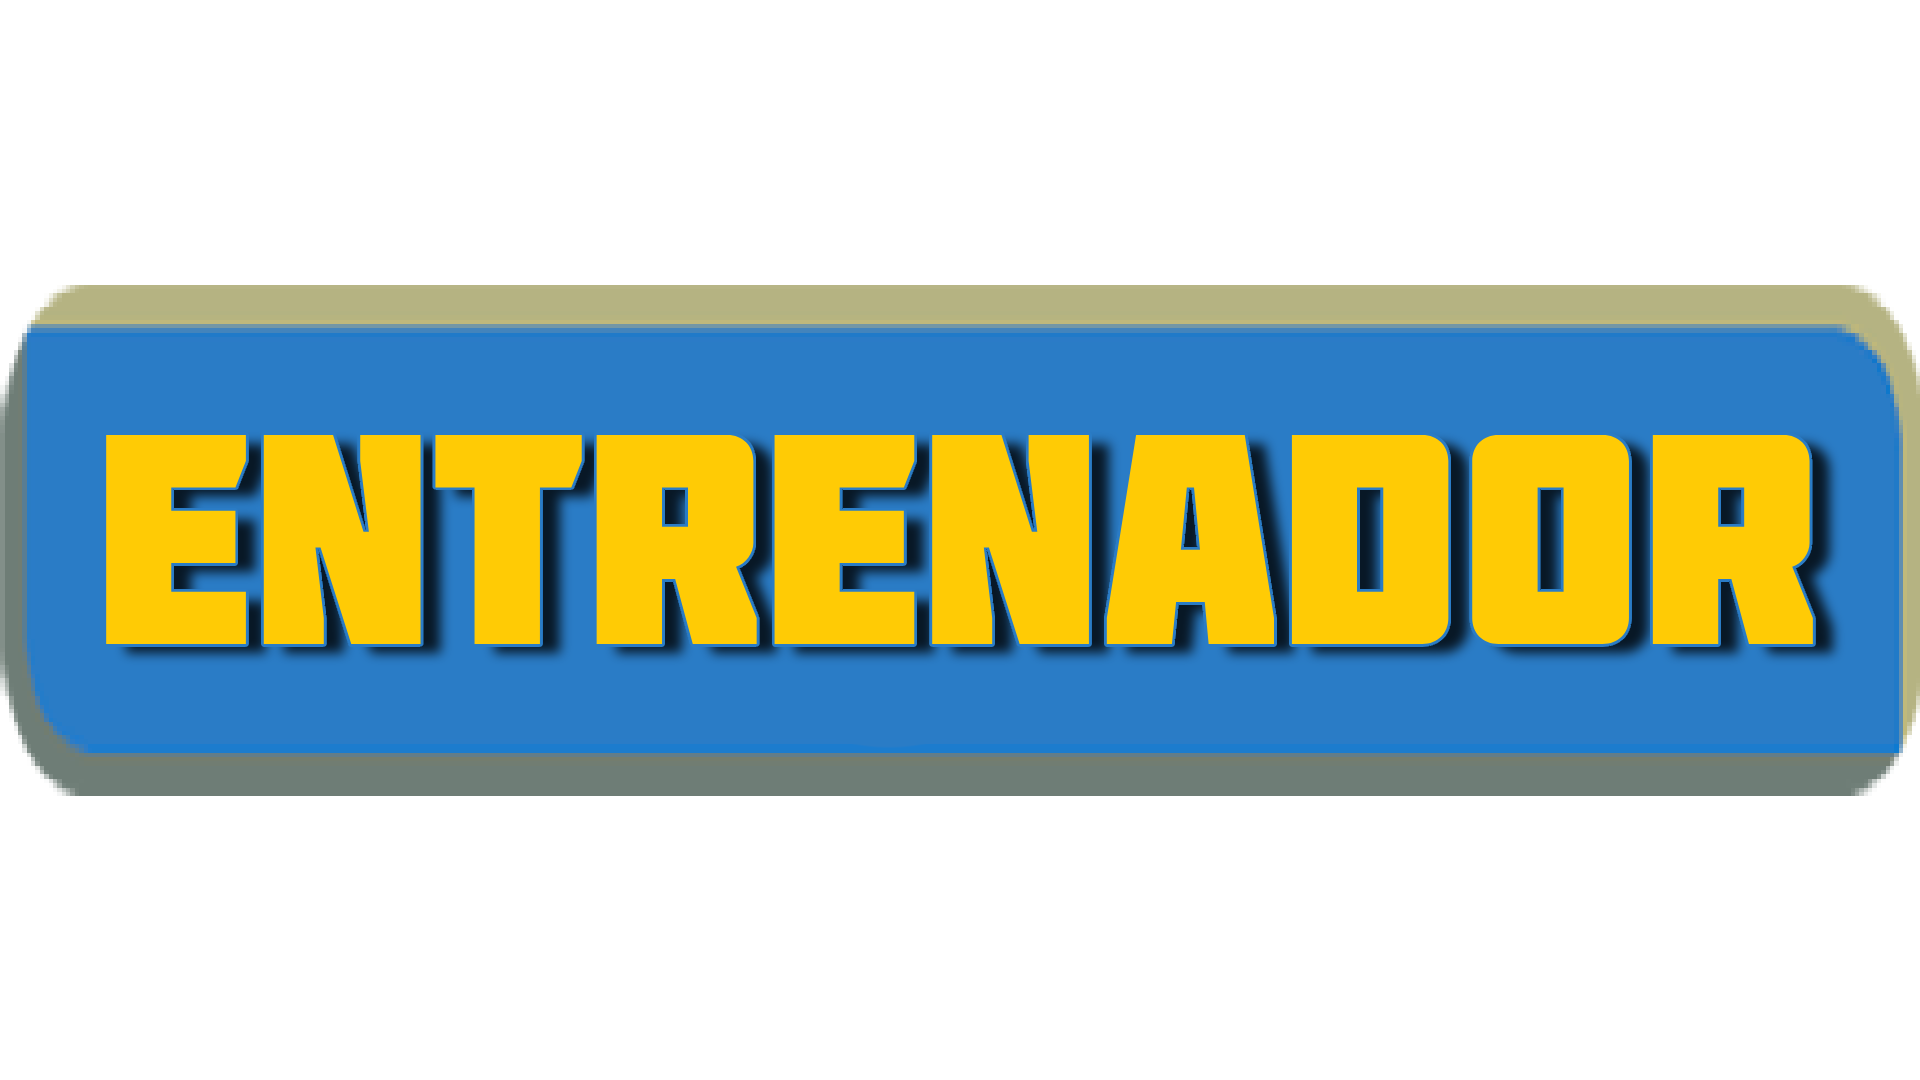
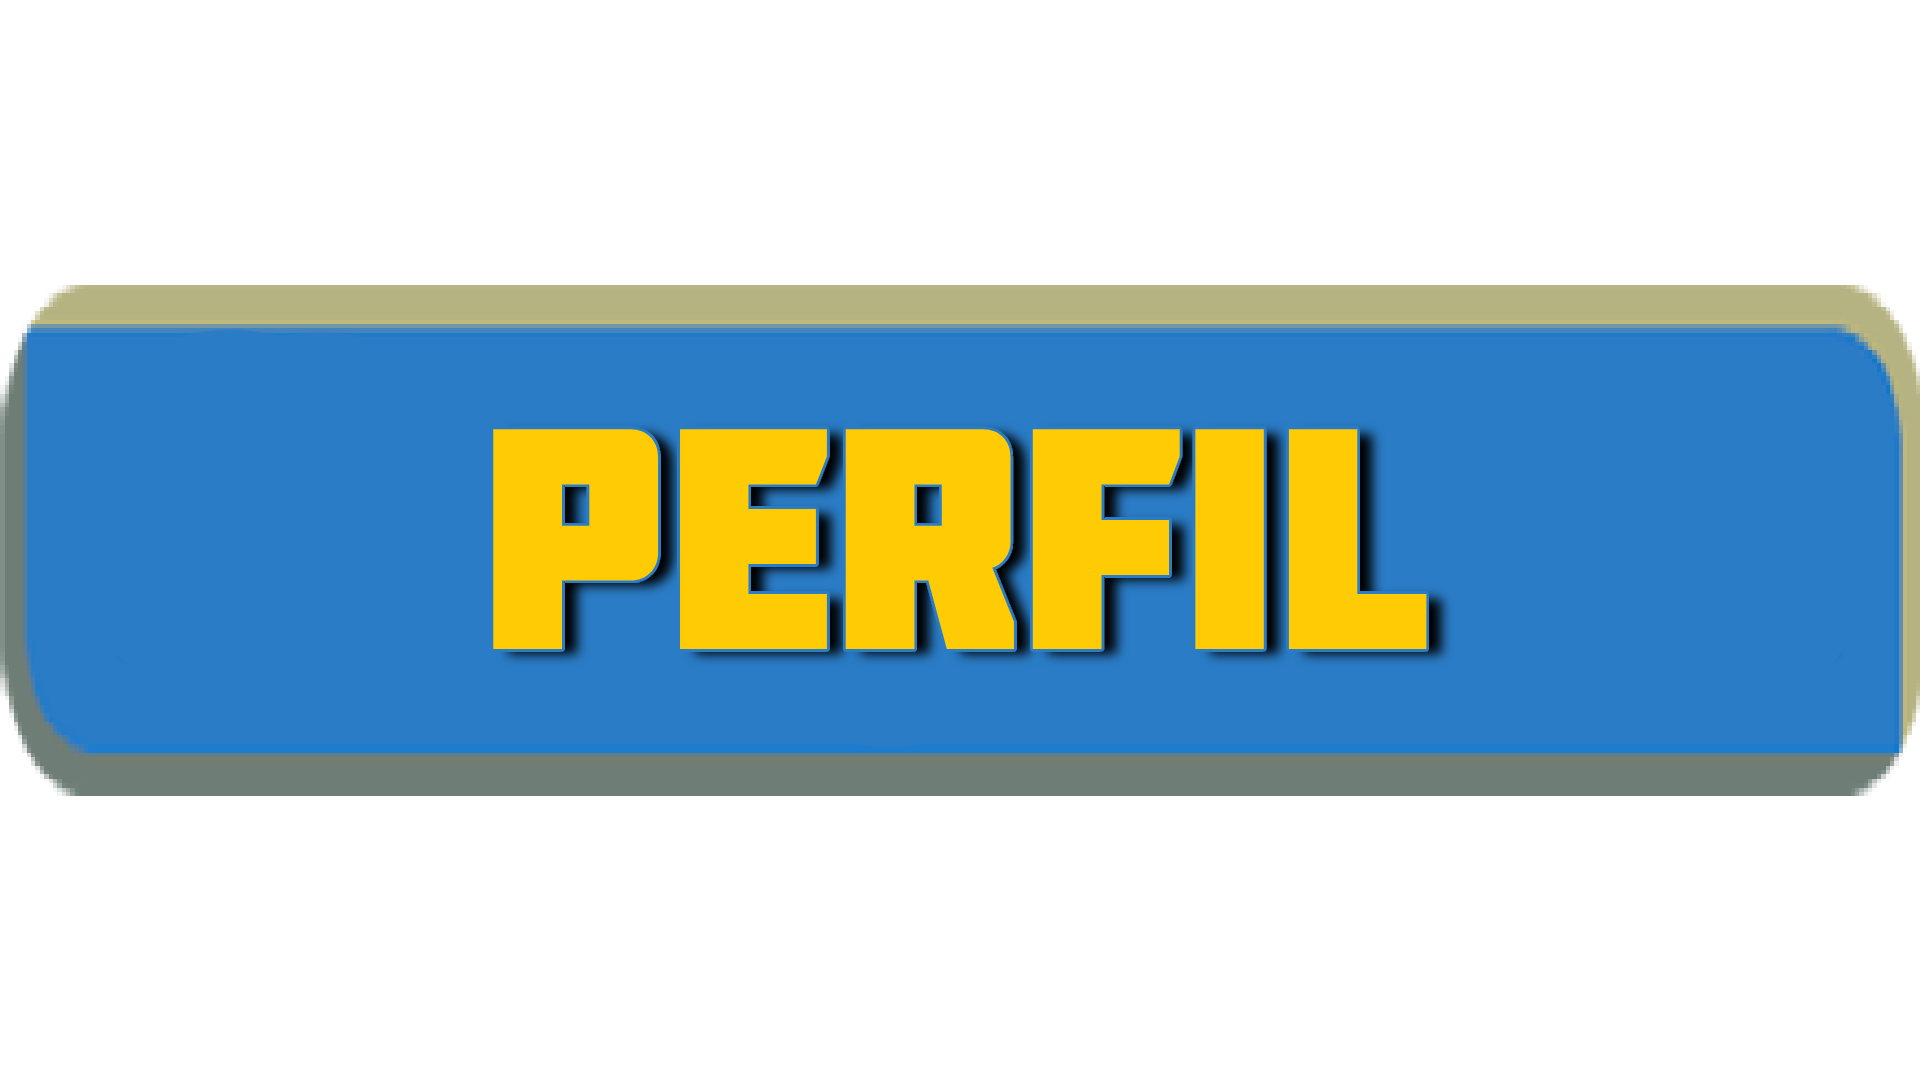
Diseño del menú finalizado
Se ha terminado el diseño del menú

Changed region(s): [[0.0312, 0.3972, 0.9688, 0.6111]]

diff --git a/src/main/resources/Menu.css b/src/main/resources/Menu.css
@@ -61,39 +61,32 @@
     -fx-rotate: 14deg;
 }
 
-/*
-
-#mochilaButton {
-    -fx-background-color: transparent;
-    -fx-min-width: 180px;
-    -fx-min-height: 45px;
-    -fx-opacity: 0;
-}
 
 #entrenadorButton {
     -fx-background-color: transparent;
-    -fx-translate-x: 298.5px;
-    -fx-translate-y: -120px;
-    -fx-min-width: 230px;
-    -fx-min-height: 130px;
-    -fx-background-image: url('img/botones/menu-tienda.png');
+    -fx-translate-x: 135px;
+    -fx-translate-y: 240px;
+    -fx-min-width: 140px;
+    -fx-min-height: 140px;
+    -fx-background-image: url('img/botones/menu-entrenador.png');
     -fx-background-size: contain;
     -fx-background-repeat: no-repeat;
     -fx-background-position: center;
-    -fx-rotate: 12deg;
+    -fx-rotate: 14deg;
 }
 
-#salirButton {
+#muteButton {
     -fx-background-color: transparent;
-    -fx-translate-x: 0px;
-    -fx-translate-y: 15px;
-    -fx-min-width: 180px;
-    -fx-min-height: 45px;
+    -fx-translate-x: 284px;
+    -fx-translate-y: 277px;
+    -fx-min-width: 140px;
+    -fx-min-height: 140px;
+    -fx-background-image: url('img/botones/menu-mute.png');
+    -fx-background-size: contain;
+    -fx-background-repeat: no-repeat;
+    -fx-background-position: center;
+    -fx-rotate: 14deg;
 }
-
-*/
-
-
 
 #barra {
     -fx-translate-x: 65px;
@@ -103,7 +96,7 @@
 }
 
 #logo {
-    -fx-translate-x: 322px;
+    -fx-translate-x: 323.5px;
     -fx-translate-y: -225px;
     -fx-scale-x: 0.5;
     -fx-scale-y: 0.5;

diff --git a/src/main/java/Pokemon/Menus/Menu.java b/src/main/java/Pokemon/Menus/Menu.java
@@ -2,8 +2,6 @@ package Pokemon.Menus;
 
 
 import Pokemon.Database.PokemonCRUD;
-import Pokemon.Entrenador.Entrenador;
-import Pokemon.Funcionalidad.Funcion;
 import Pokemon.Tienda.MenuTienda;
 import javafx.application.Application;
 import javafx.geometry.Insets;
@@ -47,10 +45,10 @@ public class Menu extends Application {
         reproductor.play();
 
         Image logo = new Image(Objects.requireNonNull(getClass().getResourceAsStream("/img/logo.png")));
-        ImageView imgView = new ImageView(logo);
-        imgView.setFitWidth(520);
-        imgView.setFitHeight(220);
-        imgView.setId("logo");
+        ImageView logoView = new ImageView(logo);
+        logoView.setFitWidth(540);
+        logoView.setFitHeight(230);
+        logoView.setId("logo");
 
         // CREAMOS UN REPRODUCTOR DE MEDIOS PARA REPRODUCIR EL AUDIO
         Media audioMedia = new Media(getClass().getResource("/aud/Menu.wav").toExternalForm());
@@ -66,17 +64,13 @@ public class Menu extends Application {
         capturarButton.setId("capturarButton");
         Button pokedexButton = new Button();
         pokedexButton.setId("pokedexButton");
-        Button entrenadorButton = new Button(Entrenador.getNombre());
+        Button entrenadorButton = new Button();
         entrenadorButton.setId("entrenadorButton");
-        // AÑADIR MOCHILA DENTRO DE ENTRENADOR
-//        Button mochilaButton = new Button("Mochila");
-//        mochilaButton.setId("mochilaButton");
         Button tiendaButton = new Button();
         tiendaButton.setId("tiendaButton");
-        Button salirButton = new Button("Salir");
-        salirButton.setId("salirButton");
         // AGREGAR BOTÓN PARA SILENCIAR O REANUDAR EL SONIDO
-        Button muteButton = new Button(" -ZzZ- ");
+        Button muteButton = new Button();
+        muteButton.setId("muteButton");
         muteButton.setOnAction(e -> {
             if (audioMediaPlayer.isMute()) {
                 audioMediaPlayer.setMute(false);
@@ -102,6 +96,9 @@ public class Menu extends Application {
             menuExplorador.start(primaryStage);
             audioMediaPlayer.stop();
         });
+
+
+
         pokedexButton.setOnAction(e -> {
             // AQUÍ PUEDES LLAMAR A LA CLASE POKEDEX
             System.out.println(PokemonCRUD.generarPokemon());
@@ -126,13 +123,9 @@ public class Menu extends Application {
         });
 
 
-        // FUNCION PARA SALIR DEL PROGRAMA
-        salirButton.setOnAction(e -> primaryStage.close());
-
         // CREAMOS UN VBOX
         StackPane root = new StackPane();
-        root.getChildren().addAll(videoView, barraView,combateButton, capturarButton, pokedexButton, entrenadorButton, tiendaButton,
-                salirButton, muteButton, imgView);
+        root.getChildren().addAll(videoView, barraView,combateButton, capturarButton, entrenadorButton, pokedexButton, tiendaButton, muteButton, logoView);
 
         root.setAlignment(Pos.CENTER);
         root.setPadding(new Insets(20));
@@ -141,7 +134,7 @@ public class Menu extends Application {
         Scene scene = new Scene(root, 1080, 650);
         scene.getStylesheets().add("Menu.css");
 
-        primaryStage.setTitle("Menú de Inicio");
+        primaryStage.setTitle("Pokémon: Menu");
         primaryStage.setScene(scene);
         primaryStage.show();
     }

diff --git a/src/main/java/Pokemon/Menus/Login.java b/src/main/java/Pokemon/Menus/Login.java
@@ -35,11 +35,11 @@ public class Login extends Application {
         grid.setHgap(10);
 
         Image logo = new Image(Objects.requireNonNull(getClass().getResourceAsStream("/img/logo.png")));
-        ImageView imgView = new ImageView(logo);
-        imgView.setFitWidth(900);
-        imgView.setFitHeight(350);
-        imgView.setId("logo");
-        grid.getChildren().add(imgView);
+        ImageView logoView = new ImageView(logo);
+        logoView.setFitWidth(900);
+        logoView.setFitHeight(350);
+        logoView.setId("logo");
+        grid.getChildren().add(logoView);
 
 
         Label nombreUsuarioTxt = new Label("Nombre de usuario:");

diff --git a/src/main/java/Pokemon/Menus/MenuEntrenador.java b/src/main/java/Pokemon/Menus/MenuEntrenador.java
@@ -44,6 +44,8 @@ public class MenuEntrenador extends Application {
     @Override
     public void start(Stage primaryStage) {
 
+        Entrenador.setNombre("El pepe");
+
         PokemonCRUD.getEquipo1(equipo1, PokemonCRUD.idEntrenador());
         PokemonCRUD.getEquipo2(equipo2, PokemonCRUD.idEntrenador());
         PokemonCRUD.getCaja(caja, PokemonCRUD.idEntrenador());
